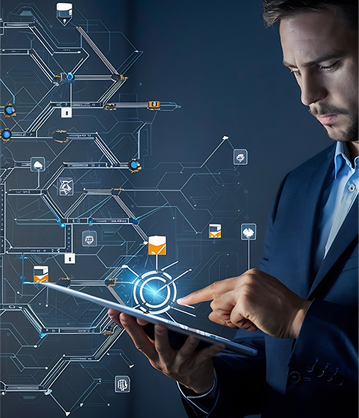
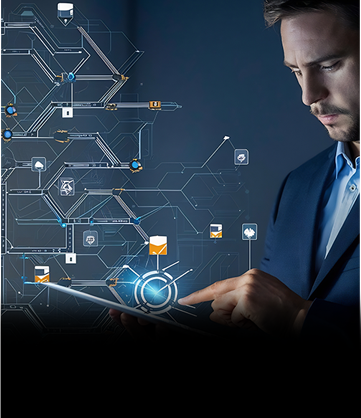
update

diff --git a/utility.html b/utility.html
@@ -323,7 +323,7 @@
                                 <h4>OVERVIEW</h4>
                                 <h3>Paving the Way for a Sustainable Tomorrow</h3>
                                 <p>Increased regulation, rising production costs, and growing environmental concerns are driving the need for more efficient, technology-driven solutions in the utility sector. Utility companies are under pressure to reduce costs while ensuring compliance and sustainability. At Agile Global Solutions, we’ve consistently partnered with our utility clients to address these challenges head-on, leveraging our deep expertise and advanced technology solutions.</p>
-                                <a class="red_btn" href="index.html">Talk to OUR EXPERTS <img src="assets/images/utility/overview_arrow.png" alt=""></a>
+                                <a class="red_btn" href="index.html">Talk to OUR EXPERTS</a>
                             </div>
                         </div>
                         <div class="col-md-4">
@@ -550,7 +550,7 @@
                             <div class="row">
                                 <div class="col-md-6"></div>
                                 <div class="col-md-6">
-                                    <div class="right_img_box">
+                                    <div class="right_img_boxsss">
                                         <img src="assets/images/utility/slider/1.png" alt="">
                                     </div>
                                 </div>
@@ -567,9 +567,11 @@
                                                 <h4>casestudies</h4>
                                                 <h3>Proven Impact: 
                                                     Inspiring Results </h3> 
-                                                <b>One of the Ten Largest Public Utilities in the U.S
+                                                <b>A Large Independent Systems Operator  
+                                                    
                                                 </b>
-                                                <p>We’ve worked closely with this major utility to address challenges across analytics, grid management, and customer engagement. </p>
+                                                <p>Our solutions improved their market settlements and operational efficiency, helping them stay ahead in a competitive market.
+                                                </p>
                                             </div>
                                         </div>
                                     </div> 
@@ -582,8 +584,8 @@
                             <div class="row">
                                 <div class="col-md-6"></div>
                                 <div class="col-md-6">
-                                    <div class="right_img_box">
-                                        <img src="assets/images/utility/slider/1.png" alt="">
+                                    <div class="right_img_boxsss">
+                                        <img src="assets/images/utility/slider/2.png" alt="">
                                     </div>
                                 </div>
                             </div>
@@ -599,9 +601,11 @@
                                                 <h4>casestudies</h4>
                                                 <h3>Proven Impact: 
                                                     Inspiring Results </h3> 
-                                                <b>One of the Ten Largest Public Utilities in the U.S
+                                                <b>	One of the Largest ISOs in the U.S
+
                                                 </b>
-                                                <p>We’ve worked closely with this major utility to address challenges across analytics, grid management, and customer engagement. </p>
+                                                <p>Through our expertise in field services, asset management, and smart grid technology, we enhanced their operational capabilities and customer satisfaction.
+                                                </p>
                                             </div>
                                         </div>
                                     </div> 
@@ -614,8 +618,8 @@
                             <div class="row">
                                 <div class="col-md-6"></div>
                                 <div class="col-md-6">
-                                    <div class="right_img_box">
-                                        <img src="assets/images/utility/slider/1.png" alt="">
+                                    <div class="right_img_boxsss">
+                                        <img src="assets/images/utility/slider/3.png" alt="">
                                     </div>
                                 </div>
                             </div>

diff --git a/assets/css/style.css b/assets/css/style.css
@@ -1527,7 +1527,7 @@ ul li a,a{
 }
 
 .partner_area  {
-	background: url(../images/utility/parnter/bg.png) no-repeat fixed center center / cover;
+	background: url(../images/utility/parnter/bg.png) no-repeat scroll center center / cover;
  
 }
  
@@ -1535,9 +1535,10 @@ ul li a,a{
 	color: #fff; 
 }
 
-.partner_title p { 
-	color: #fff; 
+.partner_title p {
+	color: #fff;
 	width: 48%;
+	text-align: left;
 }
 
 .made_single_slider {
@@ -1576,22 +1577,21 @@ ul li a,a{
 	width: 100%;
 }
 
-.right_img_box {
-	position: relative;
+
+
+.overview_title.slider_title p {
+	text-align: left;
 }
 
-.right_img_box::after {
-	content: '';
-	position: absolute;
-	left: 0;
-	top: 0;
+.overview_title.slider_title b {
+	font-size: 21px;
+}
+
+.right_img_boxsss img {
 	width: 100%;
-	height: 100%;
-	background: #020202ad;
+	height: 700px;
+	object-fit: cover;
 }
-
-
-
 
 /*======================  End Page  ======================*/
 

diff --git a/assets/css/responsive.css b/assets/css/responsive.css
@@ -54,6 +54,9 @@
 	.slider_3 { 
         background: #000816;
     }
+    .right_img_boxsss img { 
+        height: 500px; 
+    }
     .single_deep_item img { 
         height: 145px;
     }
@@ -408,6 +411,23 @@
     .mobile_menu_child a { 
         font-size: 14px; 
     }
+    .right_img_boxsss {
+        position: relative;
+    }
+    
+    .right_img_boxsss::after {
+        content: '';
+        position: absolute;
+        left: 0;
+        top: 0;
+        width: 100%;
+        height: 100%;
+        background: #020202ad;
+    }
+    
+    .overview_title.slider_title b {
+        font-size: 16px;
+    }
     .red_btn { 
         font-size: 14px; 
     }
@@ -555,6 +575,9 @@
         font-size: 25px;
         line-height: 30px;
         margin: 8px 0;
+    }
+    .right_img_boxsss img { 
+        height: auto;
     }
     .overview_title.slider_title {
         width: 100%;
